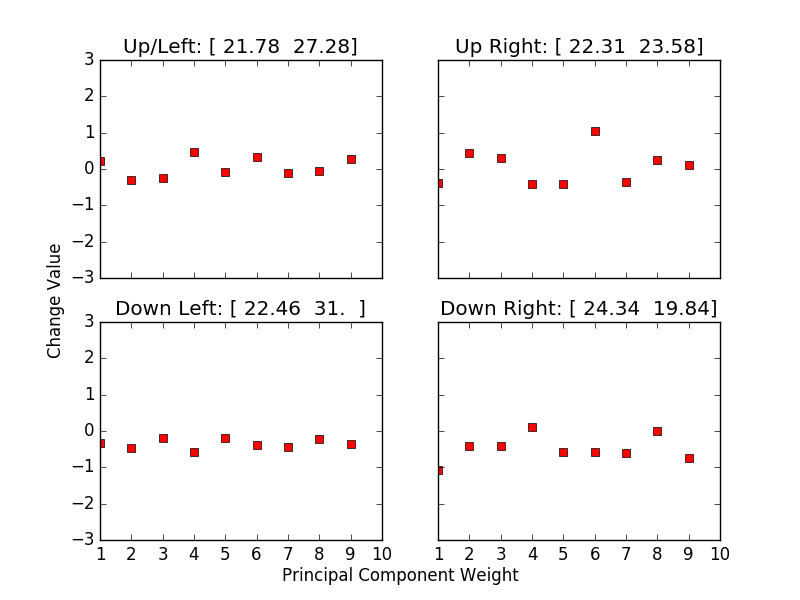
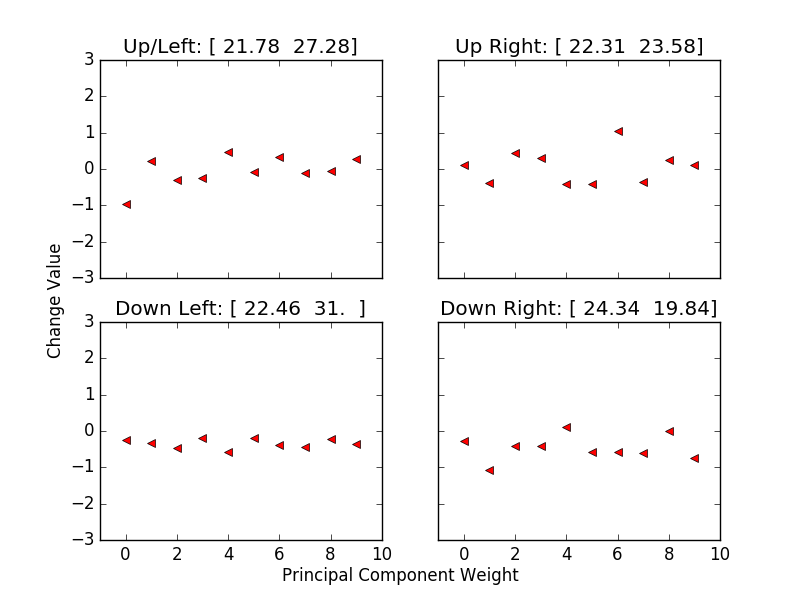
generate final graphs, code complete!

diff --git a/implementation/individualiser/individualiser/analysis/all_error_pairs.py b/implementation/individualiser/individualiser/analysis/all_error_pairs.py
@@ -178,17 +178,17 @@ f, ((ax1, ax2), (ax3, ax4)) = plot.subplots(2, 2, sharex="col", sharey="row")
 f.text(0.5, 0.04, "Principal Component Weight", ha="center", va="center")
 f.text(0.07, 0.5, "Change Value", ha="center", va="center", rotation="vertical")
 # plot averages as dots
-ax1.axis([1, 10, -3, 3])
-ax2.axis([1, 10, -3, 3])
-ax3.axis([1, 10, -3, 3])
-ax4.axis([1, 10, -3, 3])
-ax1.plot(up_left_average, "rs")
+ax1.axis([-1, 10, -3, 3])
+ax2.axis([-1, 10, -3, 3])
+ax3.axis([-1, 10, -3, 3])
+ax4.axis([-1, 10, -3, 3])
+ax1.plot(up_left_average, "r<")
 ax1.set_title("Up/Left: " + np.array_str(up_left_avg_ang, precision=2))
-ax2.plot(up_right_average, "rs")
+ax2.plot(up_right_average, "r<")
 ax2.set_title("Up Right: " + np.array_str(up_right_avg_ang, precision=2))
-ax3.plot(down_left_average, "rs")
+ax3.plot(down_left_average, "r<")
 ax3.set_title("Down Left: " + np.array_str(down_left_avg_ang, precision=2))
-ax4.plot(down_right_average, "rs")
+ax4.plot(down_right_average, "r<")
 ax4.set_title("Down Right: " + np.array_str(down_right_avg_ang, precision=2))
 
 # plot on violin/boxplots
